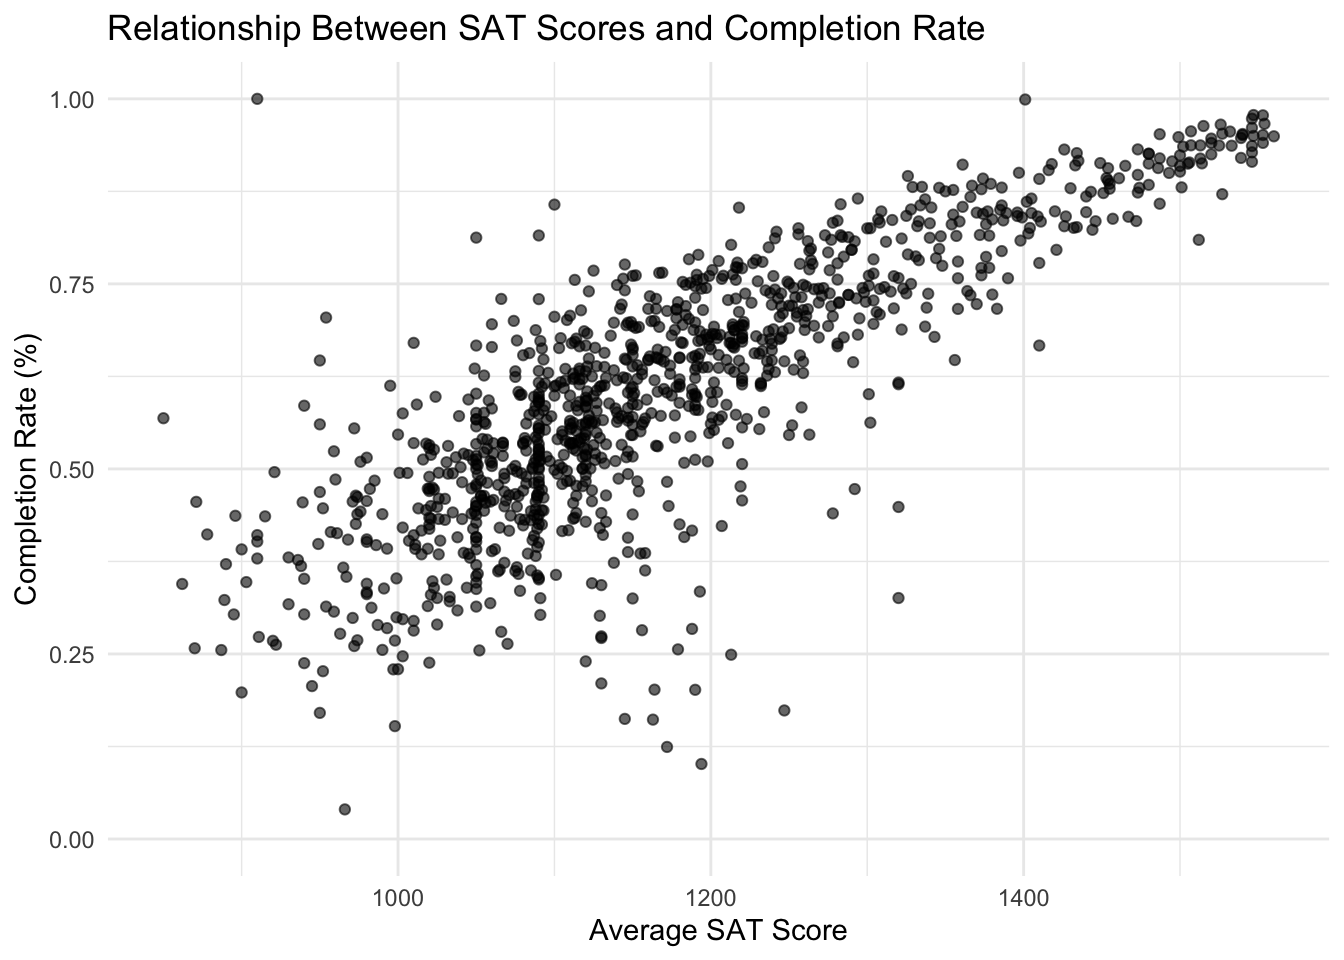
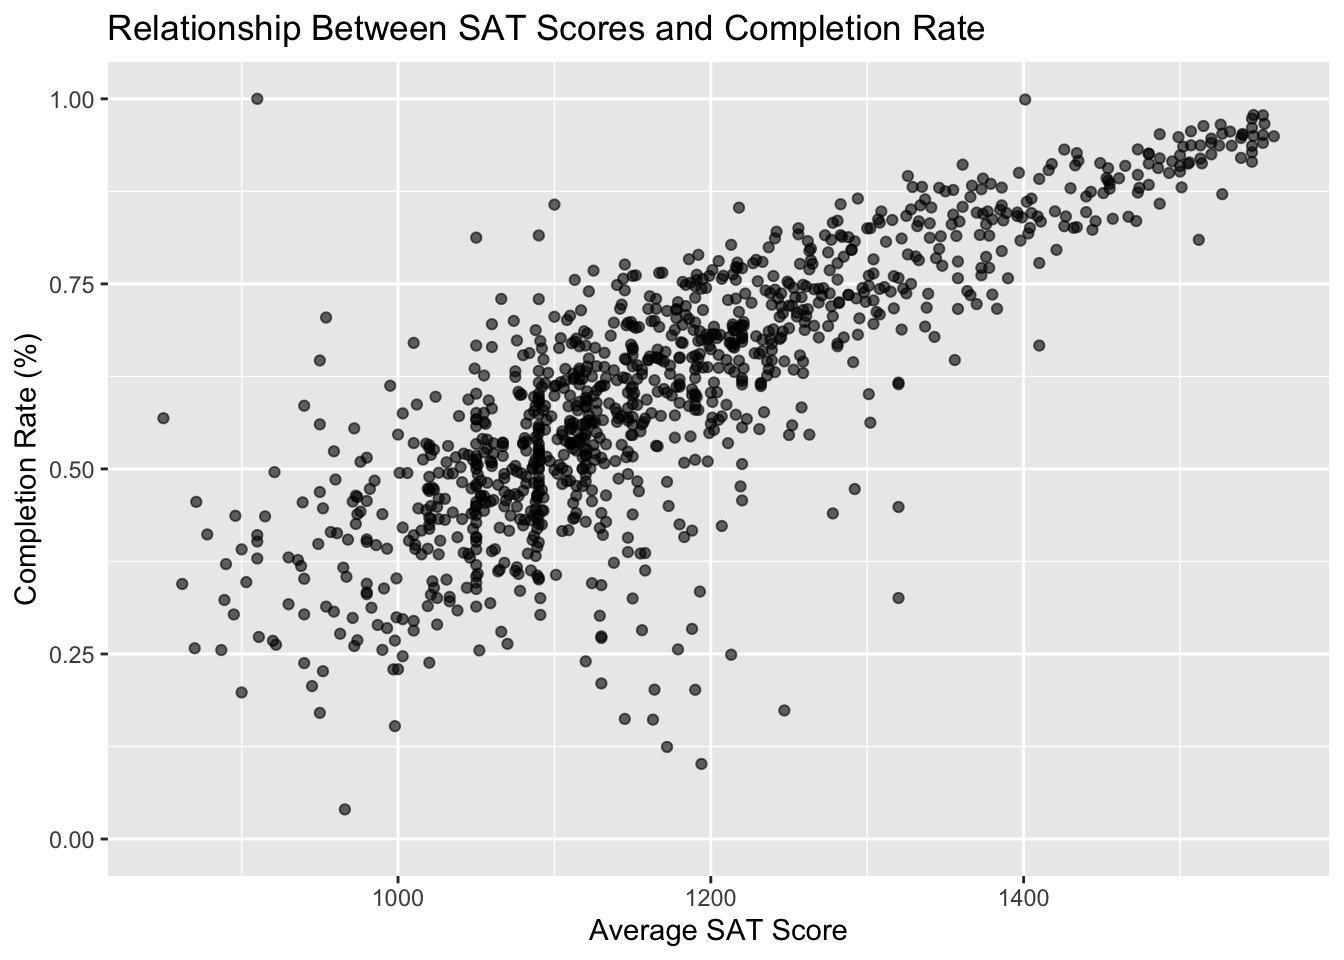
Built site for gh-pages

diff --git a/posts/2024-10-21-blog-post3/blog_post3.html b/posts/2024-10-21-blog-post3/blog_post3.html
@@ -181,7 +181,7 @@ pre > code.sourceCode > span > a:first-child::before { text-decoration: underlin
       <div>
       <div class="quarto-title-meta-heading">Modified</div>
       <div class="quarto-title-meta-contents">
-        <p class="date-modified">October 15, 2024</p>
+        <p class="date-modified">October 28, 2024</p>
       </div>
     </div>
       
@@ -201,18 +201,27 @@ pre > code.sourceCode > span > a:first-child::before { text-decoration: underlin
 
 <section id="data-cleaning-rationale" class="level1">
 <h1>Data cleaning rationale</h1>
-<p>Selected some columns of the original big dataset:</p>
+<p>We selected the following columns of the original big dataset to further investigate:</p>
 <ol type="1">
-<li><p>starts_with(“C150_4”): the different types of completion rate for each race</p></li>
-<li><p>INSTNM: institution name</p></li>
-<li><p>CITY: the name of the city where the institution is located</p></li>
-<li><p>STABBR: the name of the state where the institution is located</p></li>
-<li><p>starts_with(“SAT”): some variables related to SAT scores of students</p></li>
-<li><p>starts_with(“ACT”): some variables related to ACT scores of students</p></li>
-<li><p>starts_with(“NPT”): the average net price of each institution</p></li>
+<li><p>starts_with(“C150_4”): Proportion in each race category, full-time, first-time, who completed degree within 150 percent of normal time</p></li>
+<li><p>starts_with(“D150_4”): Proportion in each race category who completed degree within 150 percent of normal time</p></li>
+<li><p>starts_with(“IRPS_”): The share of faculty that fall under specified race categorizations</p></li>
+<li><p>INSTNM: Institution name</p></li>
+<li><p>CITY: The name of the city where the institution is located</p></li>
+<li><p>STABBR: The name of the state where the institution is located</p></li>
+<li><p>starts_with(“SAT”): Variables pertaining to the SAT scores of students</p></li>
+<li><p>starts_with(“ACT”): Variables pertaining to the ACT scores of students</p></li>
+<li><p>starts_with(“NPT”): The average net price of the institution</p></li>
 <li><p>LO_INC_ENRL_ORIG_YR3_RT: Percent of low-income (between $30,000 and $75,000 in nominal family income) students who were still enrolled at original institution within 3 years.</p></li>
 <li><p>MD_INC_ENRL_ORIG_YR3_RT: Percent of middle-income (between $30,000 and $75,000 in nominal family income) students who were still enrolled at original institution within 3 years.</p></li>
 <li><p>HI_INC_ENRL_ORIG_YR3_RT: Percent of high-income (between $30,000 and $75,000 in nominal family income) students who were still enrolled at original institution within 3 years.</p></li>
+<li><p>LO_INC_ENRL_ORIG_YR4_RT: Percent of low-income (less than $30,000 in nominal family income) students who were still enrolled at original institution within 4 years</p></li>
+<li><p>MD_INC_COMP_ORIG_YR4_RT: Percent of middle-income (between $30,000 and $75,000 in nominal family income) students who completed within 4 years at original institution</p></li>
+<li><p>HI_INC_COMP_ORIG_YR4_RT: Percent of high-income (above $75,000 in nominal family income) students who completed within 4 years at original institution</p></li>
+<li><p>PCT_WHITE: The percent of the population from students’ zip codes that is White, via Census data</p></li>
+<li><p>PCT_BLACK: The percent of the population from students’ zip codes that is Black, via Census data</p></li>
+<li><p>PCT_ASIAN: The percent of the population from students’ zip codes that is Asian, via Census data</p></li>
+<li><p>PCT_HISPANIC: The percent of the population from students’ zip codes that is Hispanic, via Census data</p></li>
 </ol>
 </section>
 <section id="plot-for-relationship-between-sat-scores-and-completion-rate" class="level1">
@@ -231,15 +240,14 @@ pre > code.sourceCode > span > a:first-child::before { text-decoration: underlin
 ✖ dplyr::lag()    masks stats::lag()
 ℹ Use the conflicted package (&lt;http://conflicted.r-lib.org/&gt;) to force all conflicts to become errors</code></pre>
 </div>
-<div class="sourceCode cell-code" id="cb3"><pre class="sourceCode r code-with-copy"><code class="sourceCode r"><span id="cb3-1"><a href="#cb3-1" aria-hidden="true" tabindex="-1"></a>education_cohort_data_cleaned <span class="ot">&lt;-</span> <span class="fu">read_rds</span>(<span class="st">"dataset/education_cohort_data_cleaned.rds"</span>)</span>
-<span id="cb3-2"><a href="#cb3-2" aria-hidden="true" tabindex="-1"></a><span class="fu">ggplot</span>(education_cohort_data_cleaned, <span class="fu">aes</span>(<span class="at">x =</span> SAT_AVG, <span class="at">y =</span> C150_4)) <span class="sc">+</span></span>
+<div class="sourceCode cell-code" id="cb3"><pre class="sourceCode r code-with-copy"><code class="sourceCode r"><span id="cb3-1"><a href="#cb3-1" aria-hidden="true" tabindex="-1"></a>education_cohort_data_cleaned_1 <span class="ot">&lt;-</span> <span class="fu">read_rds</span>(<span class="st">"dataset/education_cohort_data_cleaned.rds"</span>)</span>
+<span id="cb3-2"><a href="#cb3-2" aria-hidden="true" tabindex="-1"></a><span class="fu">ggplot</span>(education_cohort_data_cleaned_1, <span class="fu">aes</span>(<span class="at">x =</span> SAT_AVG, <span class="at">y =</span> C150_4)) <span class="sc">+</span></span>
 <span id="cb3-3"><a href="#cb3-3" aria-hidden="true" tabindex="-1"></a>  <span class="fu">geom_point</span>(<span class="at">alpha =</span> <span class="fl">0.6</span>) <span class="sc">+</span></span>
 <span id="cb3-4"><a href="#cb3-4" aria-hidden="true" tabindex="-1"></a>  <span class="fu">labs</span>(</span>
 <span id="cb3-5"><a href="#cb3-5" aria-hidden="true" tabindex="-1"></a>    <span class="at">title =</span> <span class="st">"Relationship Between SAT Scores and Completion Rate"</span>,</span>
 <span id="cb3-6"><a href="#cb3-6" aria-hidden="true" tabindex="-1"></a>    <span class="at">x =</span> <span class="st">"Average SAT Score"</span>,</span>
 <span id="cb3-7"><a href="#cb3-7" aria-hidden="true" tabindex="-1"></a>    <span class="at">y =</span> <span class="st">"Completion Rate (%)"</span></span>
-<span id="cb3-8"><a href="#cb3-8" aria-hidden="true" tabindex="-1"></a>  ) <span class="sc">+</span></span>
-<span id="cb3-9"><a href="#cb3-9" aria-hidden="true" tabindex="-1"></a>  <span class="fu">theme_minimal</span>()</span></code><button title="Copy to Clipboard" class="code-copy-button"><i class="bi"></i></button></pre></div>
+<span id="cb3-8"><a href="#cb3-8" aria-hidden="true" tabindex="-1"></a>  )</span></code><button title="Copy to Clipboard" class="code-copy-button"><i class="bi"></i></button></pre></div>
 <div class="cell-output cell-output-stderr">
 <pre><code>Warning: Removed 5406 rows containing missing values or values outside the scale range
 (`geom_point()`).</code></pre>
@@ -252,7 +260,39 @@ pre > code.sourceCode > span > a:first-child::before { text-decoration: underlin
 </div>
 </div>
 </div>
-<p>Comment: We expect to see a positive correlation, as higher SAT scores often correlate with higher institutional success rates. By plotting these two variables, we can check if the data behaves as expected or if there are unusual trends or outliers.</p>
+<p>Expected pattern: A positive correlation can be found between higher SAT scores institutional success rates. By plotting these two variables, we can check if the data behaves as expected or if there are unusual trends or outliers. This represents a commonly perpetuated idea that SAT scores are often indicative of student success rates and intellect. And although this demonstrates that students who perform better on the SAT tend to have higher completion rates, we must also account for the fact that SAT scores could be linked to other factors, including household income and affluence. This disproportionately could harm minority race groups and something we will further explore through data analysis.</p>
+<div class="cell">
+<div class="sourceCode cell-code" id="cb5"><pre class="sourceCode r code-with-copy"><code class="sourceCode r"><span id="cb5-1"><a href="#cb5-1" aria-hidden="true" tabindex="-1"></a>education_cohort_data_cleaned_2 <span class="ot">&lt;-</span> <span class="fu">read_rds</span>(<span class="st">"dataset/education_cohort_data_cleaned.rds"</span>)</span>
+<span id="cb5-2"><a href="#cb5-2" aria-hidden="true" tabindex="-1"></a>create_bins_1 <span class="ot">&lt;-</span> <span class="fu">cut</span>(education_cohort_data_cleaned_2<span class="sc">$</span>C150_4_WHITE,</span>
+<span id="cb5-3"><a href="#cb5-3" aria-hidden="true" tabindex="-1"></a>                   <span class="at">breaks =</span> <span class="fu">seq</span>(<span class="dv">0</span>, <span class="dv">1</span>, <span class="at">by =</span> <span class="fl">0.1</span>),</span>
+<span id="cb5-4"><a href="#cb5-4" aria-hidden="true" tabindex="-1"></a>                   <span class="at">labels =</span> <span class="fu">seq</span>(<span class="fl">0.1</span>, <span class="dv">1</span>, <span class="at">by =</span> <span class="fl">0.1</span>),</span>
+<span id="cb5-5"><a href="#cb5-5" aria-hidden="true" tabindex="-1"></a>                   <span class="at">include.lowest =</span> <span class="cn">TRUE</span>)</span>
+<span id="cb5-6"><a href="#cb5-6" aria-hidden="true" tabindex="-1"></a><span class="fu">ggplot</span>(education_cohort_data_cleaned_2, <span class="fu">aes</span>(<span class="at">x =</span> <span class="fu">as.factor</span>(create_bins_1))) <span class="sc">+</span> </span>
+<span id="cb5-7"><a href="#cb5-7" aria-hidden="true" tabindex="-1"></a>  <span class="fu">geom_bar</span>() <span class="sc">+</span></span>
+<span id="cb5-8"><a href="#cb5-8" aria-hidden="true" tabindex="-1"></a>  <span class="fu">labs</span>(<span class="at">x =</span> <span class="st">"Proportion White students who graduated within 150% of the typical time frame"</span>, <span class="at">y =</span> <span class="st">"Number of institutitions"</span>) </span></code><button title="Copy to Clipboard" class="code-copy-button"><i class="bi"></i></button></pre></div>
+<div class="cell-output-display">
+<div>
+<figure class="figure">
+<p><img src="blog_post3_files/figure-html/unnamed-chunk-2-1.png" class="img-fluid figure-img" width="672"></p>
+</figure>
+</div>
+</div>
+<div class="sourceCode cell-code" id="cb6"><pre class="sourceCode r code-with-copy"><code class="sourceCode r"><span id="cb6-1"><a href="#cb6-1" aria-hidden="true" tabindex="-1"></a>create_bins_2 <span class="ot">&lt;-</span> <span class="fu">cut</span>(education_cohort_data_cleaned_2<span class="sc">$</span>C150_4_BLACK,</span>
+<span id="cb6-2"><a href="#cb6-2" aria-hidden="true" tabindex="-1"></a>                   <span class="at">breaks =</span> <span class="fu">seq</span>(<span class="dv">0</span>, <span class="dv">1</span>, <span class="at">by =</span> <span class="fl">0.1</span>),</span>
+<span id="cb6-3"><a href="#cb6-3" aria-hidden="true" tabindex="-1"></a>                   <span class="at">labels =</span> <span class="fu">seq</span>(<span class="fl">0.1</span>, <span class="dv">1</span>, <span class="at">by =</span> <span class="fl">0.1</span>),</span>
+<span id="cb6-4"><a href="#cb6-4" aria-hidden="true" tabindex="-1"></a>                   <span class="at">include.lowest =</span> <span class="cn">TRUE</span>)</span>
+<span id="cb6-5"><a href="#cb6-5" aria-hidden="true" tabindex="-1"></a><span class="fu">ggplot</span>(education_cohort_data_cleaned_2, <span class="fu">aes</span>(<span class="at">x =</span> <span class="fu">as.factor</span>(create_bins_2))) <span class="sc">+</span> </span>
+<span id="cb6-6"><a href="#cb6-6" aria-hidden="true" tabindex="-1"></a>  <span class="fu">geom_bar</span>() <span class="sc">+</span></span>
+<span id="cb6-7"><a href="#cb6-7" aria-hidden="true" tabindex="-1"></a>  <span class="fu">labs</span>(<span class="at">x =</span> <span class="st">"Proportion White students who graduated within 150% of the typical time frame"</span>, <span class="at">y =</span> <span class="st">"Number of institutitions"</span>) </span></code><button title="Copy to Clipboard" class="code-copy-button"><i class="bi"></i></button></pre></div>
+<div class="cell-output-display">
+<div>
+<figure class="figure">
+<p><img src="blog_post3_files/figure-html/unnamed-chunk-2-2.png" class="img-fluid figure-img" width="672"></p>
+</figure>
+</div>
+</div>
+</div>
+<p>This bar chart reveals that there exists empty rows in the data set. From this, we can clean the data to account for null values that should not be included within our data analysis. This number is considerable, so we will look into which data categories have large amounts of empty data versus others.</p>
 
 
 </section>

diff --git a/index.html b/index.html
@@ -211,7 +211,7 @@ window.Quarto = {
 
 <div class="quarto-listing quarto-listing-container-default" id="listing-listing">
 <div class="list quarto-listing-default">
-<div class="quarto-post image-right" data-index="0" data-categories="" data-listing-date-sort="1730088000000" data-listing-file-modified-sort="1730149955565" data-listing-date-modified-sort="1728964800000" data-listing-reading-time-sort="2" data-listing-word-count-sort="237">
+<div class="quarto-post image-right" data-index="0" data-categories="" data-listing-date-sort="1730088000000" data-listing-file-modified-sort="1730211702498" data-listing-date-modified-sort="1730088000000" data-listing-reading-time-sort="4" data-listing-word-count-sort="727">
 <div class="thumbnail">
 <p><a href="./posts/2024-10-21-blog-post3/blog_post3.html" class="no-external"></a></p><a href="./posts/2024-10-21-blog-post3/blog_post3.html" class="no-external">
 <p class="card-img-top"><img src="posts/2024-10-21-blog-post3/blog_post3_files/figure-html/unnamed-chunk-1-1.png"  class="thumbnail-image card-img"/></p>

diff --git a/data.html b/data.html
@@ -257,8 +257,8 @@ lgl   (75): LOCALE2, UG, UGDS_WHITENH, UGDS_BLACKNH, UGDS_API, UGDS_AIANOLD,...
 <div class="cell-output cell-output-stdout">
 <pre><code>
 &gt; education_cohort_data_cleaned = select(education_cohort_data, 
-+     starts_with("C150_4"), "INSTNM", "CITY", "STABBR", starts_with("SAT"), 
-+     s .... [TRUNCATED] 
++     starts_with("C150_4"), starts_with("D150_4"), starts_with("IRPS_"), 
++     star .... [TRUNCATED] 
 
 &gt; write_rds(education_cohort_data_cleaned, file = here::here("dataset", 
 +     "education_cohort_data_cleaned.rds"))</code></pre>
